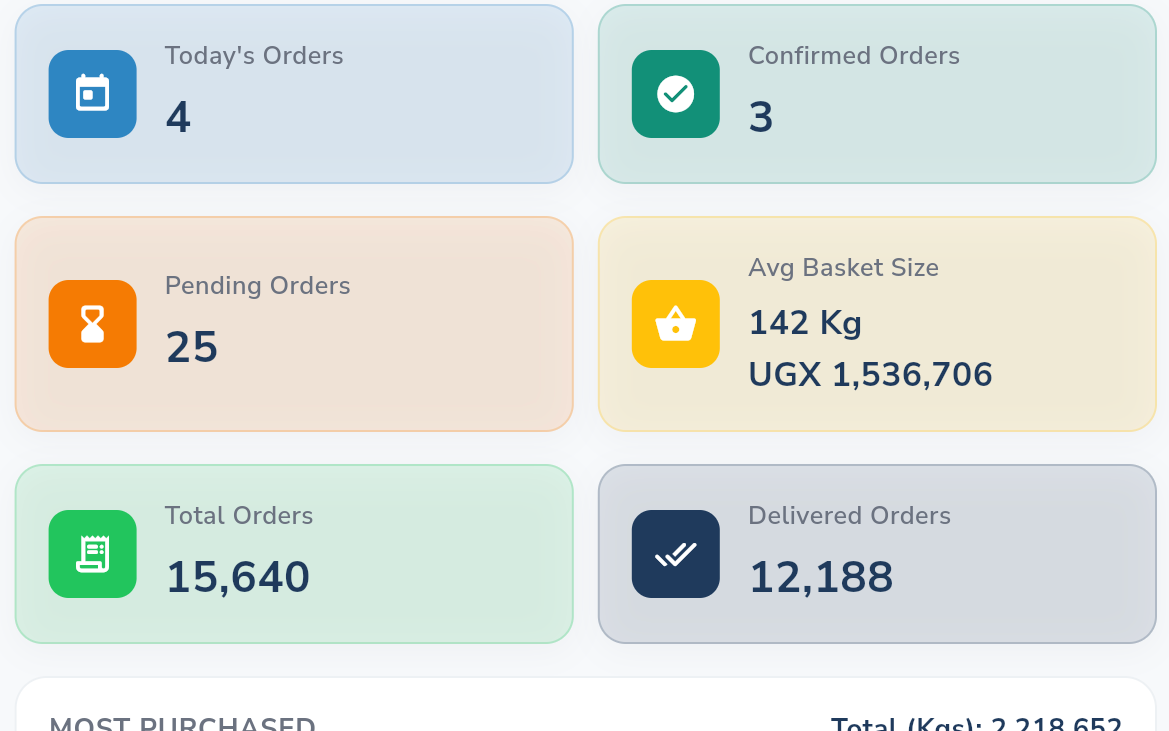
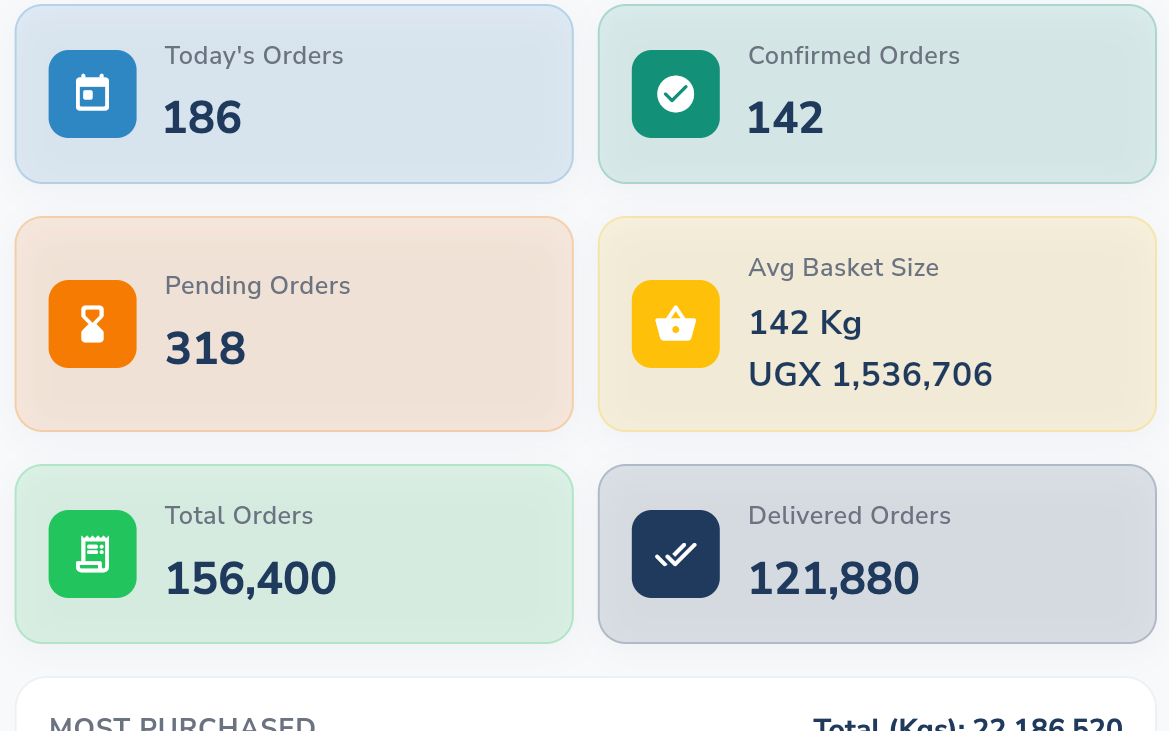
EzySupplier and EzyServices screens: raise the figures
At the marketing team's request, the numbers on both dashboards are raised
about tenfold and kept consistent: paid plus free equals the total, shares
and the average basket are unchanged, chart axes scale with the totals, and
monthly revenue stays within paid subscribers at UGX 5,000. Repainted in the
dashboard's own font; the screens, thumbs and magnified details follow.

Also refreshes the office photo's WebP from its metadata-free source.

diff --git a/README.md b/README.md
@@ -302,7 +302,7 @@ Paying on the website needs, from engineering: web sign-in checked on the server
 - [ ] **Ka-Ezy try and hire:** have the agronomy team check the sample answers and the sample plan figures (costs, yields, prices) in `content/products/ka-ezy.yaml`, and legal add a line to the privacy policy about the demo (farm details stay on the device; with live answers they are sent to Ka-Ezy with each question). Then remove `pending` from `tryIt`. For live answers, set up the guest demo endpoint and `NEXT_PUBLIC_KAEZY_DEMO_API`. Web payment stays "finish in the app" until the items in "Ka-Ezy on the website" exist.
 - [ ] **Poultry video captions:** Marvin Busulwa's poultry video in the home page's livestock section is 3 minutes of speech with no captions (WCAG 1.2.2). Get an English transcript or WebVTT file from marketing or the video's editor, then add it as `public/videos/poultry-marvin-busulwa.vtt` with a `<track kind="captions">` in `DemoVideoPlayer` and a captions path in `livestock.video`. Ask for a corrected export at the same time ("POUTRY FARMER" in its caption).
 - [ ] **Pending items:** build with `NEXT_PUBLIC_SITE_ENV=staging`, go through every **To confirm** badge with the EzyAgric team, then confirm or remove each item in `content/`.
-- [ ] **EzyAgric Business:** Marketing and Product to approve the names EzyAgric Business, EzySupplier and EzyServices (the brand guide asks for new product names to be approved; the white-label and API access points were confirmed by the EzyAgric team on 29 Oct 2026), and the team to check that the dashboard figures shown in the module screens (sales, revenue, subscribers) are fine to publish. The chapters' magnified details (`loupe` in `content/business.yaml`) make some of them easy to read: the most purchased volumes (2,218,652 kg in all), a loan's repayments in UGX and Ka-Ezy usage counts; delete a module's `loupe` to withdraw one (its dashed frame goes with it). The chapters also set "Ezy" in Vibrant Green ("EzySupplier"), like the home headline: set `TWO_TONE_NAMES = false` in `src/components/business/chapterLooks.ts` if Marketing prefers one colour.
+- [ ] **EzyAgric Business:** Marketing and Product to approve the names EzyAgric Business, EzySupplier and EzyServices (the brand guide asks for new product names to be approved; the white-label and API access points were confirmed by the EzyAgric team on 29 Oct 2026), and the team to check that the dashboard figures shown in the module screens (sales, revenue, subscribers) are fine to publish. The chapters' magnified details (`loupe` in `content/business.yaml`) make some of them easy to read: the most purchased volumes, a loan's repayments in UGX and Ka-Ezy usage counts (the EzySupplier and EzyServices figures were raised, about tenfold, at the marketing team's request on 29 Oct 2026; the EzyCredits ledger shows a real loan); delete a module's `loupe` to withdraw one (its dashed frame goes with it). The chapters also set "Ezy" in Vibrant Green ("EzySupplier"), like the home headline: set `TWO_TONE_NAMES = false` in `src/components/business/chapterLooks.ts` if Marketing prefers one colour.
 - [ ] **Legal review:** all EzyCredits / Buy Now, Pay Later wording (the key-facts box and lender line were confirmed by the EzyAgric team on 28 Oct 2026), and the new **"Analytics and embedded videos"** section of the privacy policy. Once approved, add that section to `public/docs/privacy-policy.pdf` and update the "Last updated" date on `/privacy-policy/`.
 - [ ] **iPhone launch:** paste the App Store link into `appStore.url` in `content/site.yaml` (the official App Store badge then appears next to Google Play on every page) and update the iPhone lines listed in the comment there.
 - [ ] **Play Store listing:** update it in the same week so it names Ka-Ezy, Agrishop, EzyCredits and Produce Market like the site.
